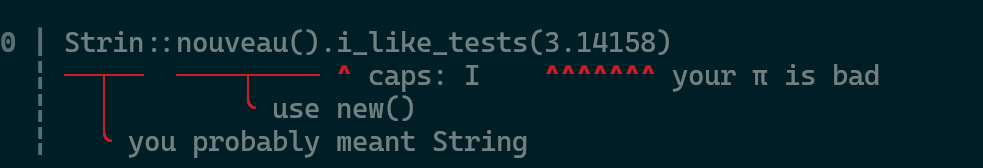
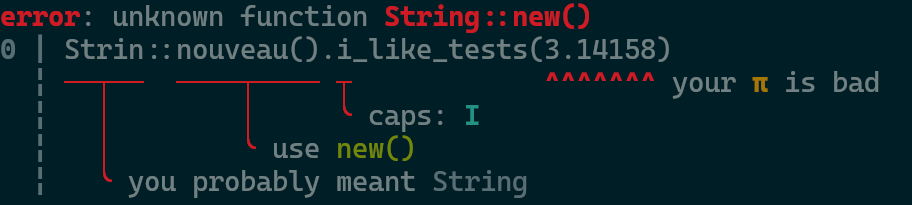
add charset config, and use comat instead of raaw ansi

Changed region(s): [[0.0, 0.0, 0.7368, 0.9821], [0.5526, 0.3571, 0.9825, 0.5357], [0.0307, 0.6548, 0.0614, 0.9524]]

diff --git a/src/lib.rs b/src/lib.rs
@@ -1,17 +1,18 @@
 #![doc = include_str!("../README.md")]
+#![forbid(unsafe_code)]
 #![warn(
-    clippy::multiple_unsafe_ops_per_block,
     clippy::missing_const_for_fn,
     clippy::redundant_pub_crate,
-    clippy::missing_safety_doc,
     clippy::imprecise_flops,
-    unsafe_op_in_unsafe_fn,
     clippy::dbg_macro,
     missing_docs
 )]
-use std::ops::Range;
-
+use comat::{cwrite, cwriteln};
+use config::Charset;
+use std::{fmt::Write, ops::Range};
 use unicode_width::UnicodeWidthStr;
+
+pub mod config;
 
 /// Span of bytes in the source
 pub type Span = Range<usize>;
@@ -57,15 +58,18 @@ impl<'s> Source<'s> {
 
 /// The error builder that this crate is all about
 #[derive(Debug)]
+#[non_exhaustive]
 pub struct Error<'s> {
+    /// The message
+    pub message: String,
     /// Source text
     pub source: Source<'s>,
     /// Labels we hold
     pub labels: Vec<Label>,
     /// Notes
     pub notes: Vec<Note>,
-    /// The message
-    pub message: String,
+    /// The config
+    pub charset: Charset,
 }
 
 impl<'s> Error<'s> {
@@ -77,7 +81,14 @@ impl<'s> Error<'s> {
             source: Source(source),
             notes: vec![],
             message: String::new(),
+            charset: Charset::unicode(),
         }
+    }
+
+    /// Sets the charset
+    pub fn charset(&mut self, charset: Charset) -> &mut Self {
+        self.charset = charset;
+        self
     }
 
     /// Add a message to this error
@@ -89,9 +100,7 @@ impl<'s> Error<'s> {
     /// Add a label to this error
     pub fn label(&mut self, label: impl Into<Label>) -> &mut Self {
         let l = label.into();
-        if self.source.0.len() < l.span.end {
-            panic!("label must be in bounds");
-        }
+        assert!(self.source.0.len() >= l.span.end, "label must be in bounds");
         self.labels.push(l);
         self
     }
@@ -103,17 +112,24 @@ impl<'s> Error<'s> {
         });
         self
     }
+
+    #[cfg(test)]
+    fn monochrome(&self) -> String {
+        anstream::adapter::strip_str(&self.to_string()).to_string()
+    }
 }
 
 macro_rules! wrpeat {
-    ($to:ident, $n:expr, $fmt:literal $(, $arg:expr)* $(,)?) => {
-        for _ in 0..$n { write!($to, $fmt $(, $arg)*)? }
+    ($to:ident, $n:expr, $fmt:expr) => {
+        for _ in 0..$n {
+            write!($to, "{}", $fmt)?
+        }
     };
 }
 
 impl<'s> std::fmt::Display for Error<'s> {
     fn fmt(&self, f: &mut std::fmt::Formatter<'_>) -> std::fmt::Result {
-        writeln!(f, "{}", self.message)?;
+        cwriteln!(f, "{:reset}", self.message)?;
         let lines = self.source.0.lines().count();
         let width = lines.ilog10() as usize + 1;
         let space = " ";
@@ -150,8 +166,16 @@ impl<'s> std::fmt::Display for Error<'s> {
             if found.is_empty() {
                 continue;
             }
-            writeln!(f, "\x1b[1;34;30m{line:width$} | \x1b[0m{code}")?;
-            write!(f, "\x1b[1;34;30m{space:width$} ¦ \x1b[0m")?;
+            cwriteln!(
+                f,
+                "{bold_black}{line:width$} {} {reset}{code}",
+                self.charset.column_line
+            )?;
+            cwrite!(
+                f,
+                "{space:width$} {:bold_black} {reset}",
+                self.charset.column_broken_line
+            )?;
 
             // sort by width
             found.sort_unstable_by(|(a, ..), (b, ..)| match a.span.start.cmp(&b.span.start) {
@@ -176,36 +200,40 @@ impl<'s> std::fmt::Display for Error<'s> {
                 {
                     let p = about.saturating_sub(1);
                     let middle = (p + 1) / 2;
-                    write!(f, "\x1b[1;34;31m")?;
-                    wrpeat!(f, middle, "─");
-                    write!(f, "┬")?;
-                    wrpeat!(f, p - middle, "─");
-                    write!(f, "\x1b[0m")?;
+                    cwrite!(f, "{bold_red}")?;
+                    wrpeat!(f, middle, self.charset.spanning_out);
+                    f.write_char(self.charset.spanning_mid)?;
+                    wrpeat!(f, p - middle, self.charset.spanning_out);
+                    cwrite!(f, "{reset}")?;
                     middles.push((l, middle, msglen));
                     position += about;
                     continue;
                 }
-                write!(f, "\x1b[1;34;31m")?;
-                wrpeat!(f, about, "^");
+                cwrite!(f, "{bold_red}")?;
+                wrpeat!(f, about, self.charset.spanning);
                 position += about;
-                write!(f, "\x1b[0m ")?;
-                position += 1;
-                write!(f, "{}", l.message)?;
-                position += msglen;
+                cwrite!(f, " {:reset}", l.message)?;
+                position += 1 + msglen;
             }
             writeln!(f)?;
-            extras(self, middles, line_span, f, width)?;
+            extras(self, middles, line_span, f, width, self.charset)?;
             fn extras(
                 e: &Error,
                 mut unfinished: Vec<(&Label, usize, usize)>,
                 line_span: Span,
                 f: &mut std::fmt::Formatter<'_>,
                 width: usize,
+                charset: Charset,
             ) -> std::fmt::Result {
                 if unfinished.is_empty() {
                     return Ok(());
                 }
-                write!(f, "\x1b[1;34;30m{:width$} ¦ \x1b[0m", " ")?;
+                cwrite!(
+                    f,
+                    "{:width$} {:bold_black} ",
+                    " ",
+                    charset.column_broken_line
+                )?;
                 let mut position = 0;
                 let mut i = 0;
                 while i < unfinished.len() {
@@ -225,26 +253,26 @@ impl<'s> std::fmt::Display for Error<'s> {
                         .any(|(b, ..)| l.span.start + connection + msglen + 2 > b.span.start)
                     {
                         // if it will, leave it for the next line (this is a recursive fn)
-                        write!(f, "\x1b[1;34;31m│\x1b[0m ")?;
+                        cwrite!(f, "{:bold_red} ", charset.out_extension)?;
                         position += 2;
                         i += 1;
                         continue;
                     }
-                    write!(f, "\x1b[1;34;31m╰\x1b[0m ")?;
+                    cwrite!(f, "{:bold_red} ", charset.out_end)?;
                     position += 2;
-                    write!(f, "{}", l.message)?;
+                    cwrite!(f, "{:reset}", l.message)?;
                     position += msglen;
                     unfinished.remove(i);
                 }
                 writeln!(f)?;
-                extras(e, unfinished, line_span, f, width)
+                extras(e, unfinished, line_span, f, width, charset)
             }
 
             found.clear();
         }
 
         for note in &self.notes {
-            writeln!(f, "{space:width$} \x1b[1;34;30m>\x1b[0m {}", note.message)?;
+            cwriteln!(f, "{space:width$} {bold_black}>{reset} {}", note.message)?;
         }
         Ok(())
     }
@@ -253,19 +281,59 @@ impl<'s> std::fmt::Display for Error<'s> {
 #[test]
 fn display() {
     let out = Error::new("void fn x(void) -> four {\nwierd};")
+        .message("attempted to use string as type")
         .label((19..23, "what is 'four'?"))
-        .note("\x1b[1;34;32mhelp\x1b[0m: change it to 4")
-        .note("\x1b[1;34;34mnote\x1b[0m: maybe python would be better for you")
-        .to_string();
+        .note("help: change it to 4")
+        .note("note: maybe python would be better for you")
+        .charset(Charset::ascii())
+        .monochrome();
     println!("{out}");
-    assert_eq!(out, "\n\u{1b}[1;34;30m0 | \u{1b}[0mvoid fn x(void) -> four {\n\u{1b}[1;34;30m  ¦ \u{1b}[0m                   \u{1b}[1;34;31m^^^^\u{1b}[0m what is 'four'?\n  \u{1b}[1;34;30m>\u{1b}[0m \u{1b}[1;34;32mhelp\u{1b}[0m: change it to 4\n  \u{1b}[1;34;30m>\u{1b}[0m \u{1b}[1;34;34mnote\u{1b}[0m: maybe python would be better for you\n");
+    assert_eq!(
+        out,
+        r"attempted to use string as type
+0 | void fn x(void) -> four {
+  :                    ^^^^ what is 'four'?
+  > help: change it to 4
+  > note: maybe python would be better for you
+"
+    );
 }
 #[test]
 fn inline() {
     let out = Error::new("im out of this worl")
+        .message("such spelling")
         .label((15..19, "forgot d"))
         .label((0..2, r#"forgot '"#))
-        .to_string();
+        .charset(Charset::ascii())
+        .monochrome();
     println!("{out}");
-    assert_eq!(out, "\n\u{1b}[1;34;30m0 | \u{1b}[0mim out of this worl\n\u{1b}[1;34;30m  ¦ \u{1b}[0m\u{1b}[1;34;31m^^\u{1b}[0m forgot '    \u{1b}[1;34;31m^^^^\u{1b}[0m forgot d\n");
+    assert_eq!(
+        out,
+        r"such spelling
+0 | im out of this worl
+  : ^^ forgot '    ^^^^ forgot d
+"
+    );
+}
+
+#[test]
+fn outline() {
+    let e = Error::new("Strin::nouveau().i_like_tests(3.14158)")
+        .message("unknown method String::new")
+        .label((0..5, "you probably meant String"))
+        .label((7..16, "use new()"))
+        .label((17..18, "caps: I"))
+        .label((30..37, "your π is bad"))
+        .charset(Charset::ascii())
+        .monochrome();
+    println!("{e}");
+    assert_eq!(
+        e,
+        r"unknown method String::new
+0 | Strin::nouveau().i_like_tests(3.14158)
+  : --.--  ----.---- ^ caps: I    ^^^^^^^ your π is bad
+  :   |        \ use new()
+  :   \ you probably meant String
+"
+    );
 }

diff --git a/src/config.rs b/src/config.rs
@@ -1,0 +1,81 @@
+//! allows configuration of how the error will appear.
+/// characters used in printing the error.
+#[derive(Debug, Clone, Copy)]
+pub struct Charset {
+    /// the line on the left
+    pub column_line: char,
+    /// the line on the left when theres a label there
+    pub column_broken_line: char,
+    /// the character shown below the error span for inline labels
+    /// ```text
+    /// 0 | problem
+    ///     ^^^^^^^ issue
+    ///     ^^^^^^^ these ones
+    /// ```
+    pub spanning: char,
+    /// the character shown about the span, when the error is moved to a next line
+    /// ```text
+    /// 0 | problem
+    ///     ───┬───
+    ///     ^^^ ^^^ these ones
+    /// ```
+    pub spanning_out: char,
+    /// the character shown in the middle of the span, when the error is moved to a next line, in the middle
+    /// ```text
+    /// 0 | problem
+    ///     ───┬───
+    ///        ^ this one
+    /// ```
+    pub spanning_mid: char,
+    /// the character used to extend the label to yet another line
+    /// ```text
+    /// 0 | problem
+    ///     ───┬───
+    ///        │ < this one
+    /// ```
+    pub out_extension: char,
+    /// the character used to end the label for a moved label
+    /// ```text
+    /// 0 | problem
+    ///     ───┬───
+    ///        ╰ issue
+    ///        ^ this one
+    /// ```
+    pub out_end: char,
+    /// the character used for a note
+    /// ```text
+    /// 0 | problem
+    ///   > btw i must say you use the same text in the example alot
+    ///   ^ this one
+    /// ```
+    pub note: char,
+}
+
+impl Charset {
+    /// Produces a (pretty) unicode charset.
+    pub const fn unicode() -> Self {
+        Self {
+            column_line: '|',
+            column_broken_line: '¦',
+            spanning: '^',
+            spanning_out: '─',
+            spanning_mid: '┬',
+            out_extension: '│', // not a pipe btw
+            out_end: '╰',
+            note: '>',
+        }
+    }
+    /// Produces a (ugly) ascii charset.
+    pub const fn ascii() -> Self {
+        Self {
+            column_line: '|',
+            column_broken_line: ':',
+            spanning: '^',
+            spanning_out: '-',
+            spanning_mid: '.',
+            out_extension: '|',
+            out_end: '\\',
+            note: '>',
+        }
+    }
+}

diff --git a/README.md b/README.md
@@ -10,15 +10,15 @@ heres the code for the sample above.
 feel free to add coloring with your favorite coloring crate, or just use raw ansi sequences.
 
 ```rust
+use comat::cformat as cmt;
 use lerr::Error;
 let mut e = Error::new("Strin::nouveau().i_like_tests(3.14158)");
-e.label((0..5, "you probably meant String"))
-    .label((7..16, "use new()"))
-    .label((17..18, "caps: I"))
-    .label((30..37, "your π is bad"));
+e.message(cmt!(r#"{bold_red}error{reset}: unknown function {bold_red}String::new(){reset}"#))
+    .label((0..5, cmt!("you probably meant {black}String{reset}")))
+    .label((7..16, cmt!("use {green}new(){reset}")))
+    .label((17..18, cmt!("caps: {bold_cyan}I{reset}")))
+    .label((30..37, cmt!("your {bold_yellow}π{reset} is bad")));
 eprintln!("{e}");
-// dont mind this
-assert_eq!(e.to_string(), "\n\u{1b}[1;34;30m0 | \u{1b}[0mStrin::nouveau().i_like_tests(3.14158)\n\u{1b}[1;34;30m  ¦ \u{1b}[0m\u{1b}[1;34;31m──┬──\u{1b}[0m  \u{1b}[1;34;31m────┬────\u{1b}[0m \u{1b}[1;34;31m^\u{1b}[0m caps: I    \u{1b}[1;34;31m^^^^^^^\u{1b}[0m your π is bad\n\u{1b}[1;34;30m  ¦ \u{1b}[0m  \u{1b}[1;34;31m│\u{1b}[0m        \u{1b}[1;34;31m╰\u{1b}[0m use new()\n\u{1b}[1;34;30m  ¦ \u{1b}[0m  \u{1b}[1;34;31m╰\u{1b}[0m you probably meant String\n");
 ```
 
 Please note that multiline labels are not yet supported.
